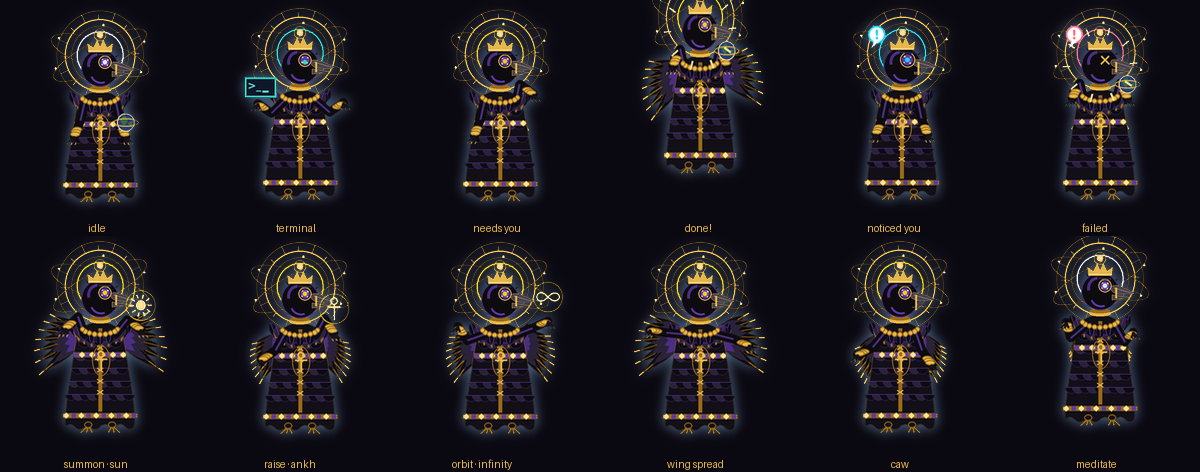
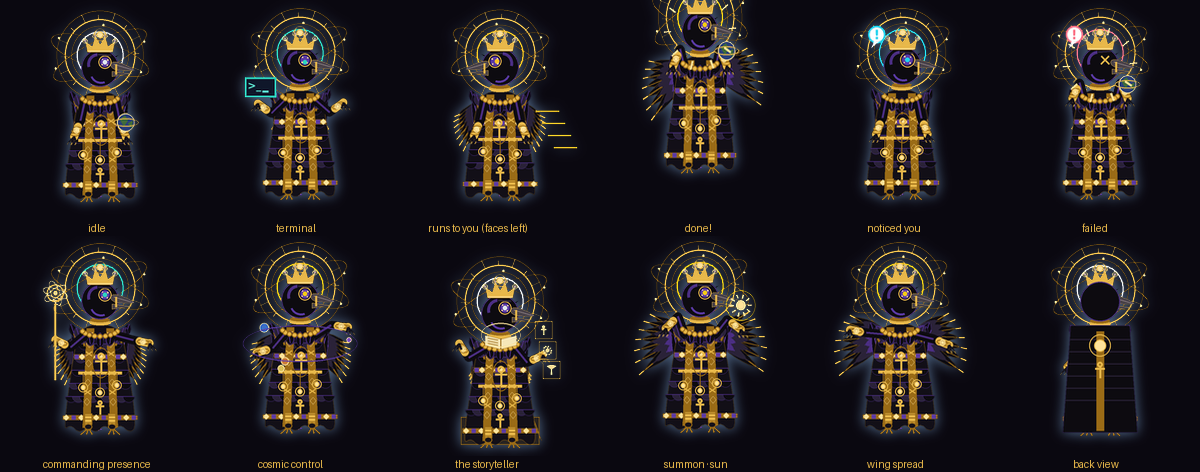
Nyamekra: add turnaround-sheet details, scene moves and facing
Long feather cape, twin gold-patterned stoles, orb pendants on chains and
a second ankh, gold gauntlets and greaves, taller jewelled crown. New
moves from the sheet's scenes: commanding_presence (scepter with
armillary sphere), cosmic_control (orbiting planets), storyteller_read
(seated with glowing book and floating glyph panels), glyph_weave and
turn_back (back view). Draws mirrored while travelling left so it faces
its direction. 100 own moves; tests cover the scenes and facing.

Claude-Session: https://claude.ai/code/session_01PQo4QqTtKQd9uCasapaCKQ

diff --git a/hermes_companion/animation/nyamekra.py b/hermes_companion/animation/nyamekra.py
@@ -74,7 +74,55 @@ BODY_MOVES = {
     "meditate":       ("calm", (40, 100, 40, 100), 0.2, 0, 0, {"float"}),
     "survey_realms":  ("focused", (15, 20, 100, 30), 0.3, 0, 4, {"scan"}),
     "steady_breath":  ("uneasy", (25, 40, 25, 40), 0.1, 0, 0, {"breath"}),
+    # from the turnaround sheet's scenes
+    "commanding_presence": ("focused", (40, 60, 85, 10), 0.5, 1, 0, {"scepter"}),
+    "cosmic_control":  ("bright", (30, 30, 130, 30), 0.6, 2, 0, {"cosmos"}),
+    "storyteller_read": ("calm", (50, 80, 50, 80), 0.2, 0, 0, {"seat", "book"}),
+    "glyph_weave":     ("focused", (40, 60, 110, 40), 0.3, 1, 0, {"glyphs"}),
+    "turn_back":       ("calm", (12, 10, 12, 10), 0.2, 0, 0, {"back"}),
 }
+
+# Poses that travel left: Nyamekra turns to face the way it is going.
+FACE_LEFT = frozenset({"run_to_user", "return_home", "panic", "orb_returns"})
+
+
+class _Mirror:
+    """Canvas proxy that draws everything mirrored across the frame centre."""
+
+    def __init__(self, canvas, width: int = 200) -> None:
+        self._c, self._w = canvas, width
+
+    def _xs(self, coords):
+        flat = list(coords[0]) if len(coords) == 1 and isinstance(coords[0], (list, tuple)) \
+            else list(coords)
+        return [self._w - v if i % 2 == 0 else v for i, v in enumerate(flat)]
+
+    def delete(self, *a):
+        return self._c.delete(*a)
+
+    def create_line(self, *coords, **kw):
+        return self._c.create_line(*self._xs(coords), **kw)
+
+    def create_polygon(self, *coords, **kw):
+        return self._c.create_polygon(*self._xs(coords), **kw)
+
+    def _box(self, method, x1, y1, x2, y2, **kw):
+        return getattr(self._c, method)(self._w - x2, y1, self._w - x1, y2, **kw)
+
+    def create_oval(self, x1, y1, x2, y2, **kw):
+        return self._box("create_oval", x1, y1, x2, y2, **kw)
+
+    def create_rectangle(self, x1, y1, x2, y2, **kw):
+        return self._box("create_rectangle", x1, y1, x2, y2, **kw)
+
+    def create_arc(self, x1, y1, x2, y2, **kw):
+        if "start" in kw or "extent" in kw:
+            start, extent = kw.get("start", 0.0), kw.get("extent", 90.0)
+            kw = dict(kw, start=180.0 - start - extent, extent=extent)
+        return self._box("create_arc", x1, y1, x2, y2, **kw)
+
+    def create_text(self, x, y, **kw):
+        return self._c.create_text(self._w - x, y, **kw)
 
 
 def _build_moves() -> dict[str, tuple]:
@@ -216,6 +264,8 @@ def _wing(canvas, root_x, root_y, side, spread, P, p, beat):
 def draw_nyamekra(canvas, pose: str, progress: float = 0.0, palette: str | None = None) -> None:
     P = NYAMEKRA_PALETTES[NYAMEKRA_DEFAULT_PALETTE]
     canvas.delete("all")
+    if pose in FACE_LEFT:
+        canvas = _Mirror(canvas)
     p = progress % 1.0
     osc = math.sin(p * 2 * math.pi)
     own = NYAMEKRA_MOVES.get(pose)
@@ -242,6 +292,8 @@ def draw_nyamekra(canvas, pose: str, progress: float = 0.0, palette: str | None 
     glow = MOOD_COLORS.get(mood, MOOD_COLORS["calm"])
     if "float" in fx:
         dy -= 8 + 2 * osc
+    if "seat" in fx:
+        dy += 12
 
     cx = 100 + shear + dx
     cy = 150 + dy + {"jump": -26, "fall": 14, "sit": 14, "tall": -5}.get(body, 0)
@@ -278,8 +330,25 @@ def draw_nyamekra(canvas, pose: str, progress: float = 0.0, palette: str | None 
     for side in (-1, 1):
         _wing(canvas, cx + side * 12, top + 10, side, wing, P, p + (0.25 if side > 0 else 0), beat)
 
-    # ---- feathered robe with kente-like gold weave -----------------------------------
+    # ---- long feather cape: from the shoulders to the floor --------------------------
     hem = cy + 40
+    for row in range(3):
+        n = 11 - row * 2
+        span = 46 - row * 8
+        for i in range(n):
+            t = i / (n - 1)
+            fx0 = cx - span + 2 * span * t
+            length = (hem + 10 - top) * (0.92 - row * 0.12) * (0.85 + 0.15 * math.sin(t * math.pi))
+            sway_ang = math.pi / 2 + (t - 0.5) * 0.5 + math.sin(p * 6.28 + i) * 0.03
+            _feather(canvas, fx0 * 0.6 + cx * 0.4, top + 4 + row * 6, sway_ang, length,
+                     7 - row, (P["feather"], P["feather_hi"], P["sheen"])[row],
+                     P["violet"] if row == 0 else P["feather"], P["violet"] if row == 0 else None)
+    if "seat" in fx:                                              # a carved stone seat
+        canvas.create_rectangle(cx - 40, hem - 22, cx + 40, hem + 6, fill="#2a2420", outline=P["gold_dk"])
+        for i in range(5):
+            canvas.create_line(cx - 34 + i * 17, hem - 18, cx - 26 + i * 17, hem + 2, fill=P["gold_dk"])
+
+    # ---- feathered robe with kente-like gold weave -----------------------------------
     robe = [cx - 20, top - 2, cx + 20, top - 2, cx + 27, top + 30]
     n_hem = 9
     for i in range(n_hem + 1):                                    # feathered, flowing hem
@@ -308,11 +377,25 @@ def draw_nyamekra(canvas, pose: str, progress: float = 0.0, palette: str | None 
                                       fill=P["gold_hi"], outline="")
             else:
                 canvas.create_rectangle(bx - 2, yy - 2, bx + 2, yy + 2, fill=P["violet"], outline="")
-    canvas.create_line(cx, top + 4, cx, hem - 12, fill=P["gold_dk"], width=4)  # front panel
-    for i in range(6):
-        yy = top + 10 + i * 11
-        canvas.create_line(cx - 3, yy, cx + 3, yy + 4, fill=P["gold"], width=1)
-        canvas.create_line(cx + 3, yy, cx - 3, yy + 4, fill=P["gold"], width=1)
+    for side in (-1, 1):                                          # gold-patterned stoles
+        x0 = cx + side * 10
+        canvas.create_line(x0, top + 2, x0 + side * 4, hem + 2, fill=P["gold_dk"], width=8)
+        for i in range(8):
+            yy = top + 8 + i * 9.5
+            xx = x0 + side * 4 * (yy - top) / (hem - top)
+            if i % 2:
+                canvas.create_polygon(xx - 3, yy, xx, yy - 3.5, xx + 3, yy, xx, yy + 3.5,
+                                      fill="", outline=P["gold_hi"])
+            else:
+                canvas.create_line(xx - 3, yy - 2, xx + 3, yy + 2, fill=P["gold"], width=1)
+                canvas.create_line(xx + 3, yy - 2, xx - 3, yy + 2, fill=P["gold"], width=1)
+    belt = top + 46
+    canvas.create_line(cx - 22, belt, cx + 22, belt, fill=P["gold"], width=3)
+    for k, px in enumerate((-17, 0, 17)):                         # orb pendants on chains
+        drop = 10 + (k % 2) * 6 + math.sin(p * 6.28 + k) * 1.5
+        canvas.create_line(cx + px, belt, cx + px, belt + drop, fill=P["gold_dk"], width=1)
+        _glow_dot(canvas, cx + px, belt + drop + 3, 2.6, P["gold"], P["gold_hi"])
+    _symbol(canvas, "ankh", cx, hem - 18, 7, P["gold"], p)        # the lower ankh
 
     # ---- feathered shoulder mantle --------------------------------------------------
     for row, (rad, col) in enumerate(((30, P["feather"]), (24, P["feather_hi"]), (17, P["feather"]))):
@@ -327,6 +410,10 @@ def draw_nyamekra(canvas, pose: str, progress: float = 0.0, palette: str | None 
     # ---- taloned feet ----------------------------------------------------------------
     for side in (-1, 1):
         fx_, fy = cx + side * 12 + (osc * 4 * side if "hop" in fx else 0), hem + 2
+        canvas.create_rectangle(fx_ - 4, fy - 14, fx_ + 4, fy - 3, fill=P["gold"], outline=P["gold_dk"])
+        for k in range(3):
+            canvas.create_line(fx_ - 4, fy - 12 + k * 3.5, fx_ + 4, fy - 12 + k * 3.5,
+                               fill=P["gold_dk"], width=1)
         for t in (-1, 0, 1):
             canvas.create_line(fx_, fy, fx_ + t * 6 + side * 2, fy + 7, fill=P["gold_dk"], width=2)
         canvas.create_oval(fx_ - 4, fy - 4, fx_ + 4, fy + 2, fill=P["talon"], outline=P["gold_dk"])
@@ -344,9 +431,12 @@ def draw_nyamekra(canvas, pose: str, progress: float = 0.0, palette: str | None 
         ex, ey, hx2, hy2 = _limb(canvas, cx + side * 16, sy, min(sh, 100) if not up else 180 - sh,
                                  el, 18, 17, side, 9, P["feather"], flip_up=up)
         canvas.create_line(cx + side * 16, sy, ex, ey, fill=P["sheen"], width=2)
-        for k in (0.55, 0.7, 0.85):
+        gx0, gy0 = ex + (hx2 - ex) * 0.4, ey + (hy2 - ey) * 0.4
+        canvas.create_line(gx0, gy0, hx2, hy2, fill=P["gold"], width=8, capstyle="round")
+        for k in (0.5, 0.68, 0.86):
             bx, by = ex + (hx2 - ex) * k, ey + (hy2 - ey) * k
-            canvas.create_oval(bx - 5, by - 2.5, bx + 5, by + 2.5, fill=P["gold"], outline=P["gold_dk"])
+            canvas.create_oval(bx - 4.5, by - 2, bx + 4.5, by + 2, outline=P["gold_dk"], width=1)
+        _glow_dot(canvas, ex + (hx2 - ex) * 0.6, ey + (hy2 - ey) * 0.6, 1.6, P["gold_hi"], P["gold_hi"])
         for t in (-1, 0, 1):                                      # talon fingers
             canvas.create_line(hx2, hy2, hx2 + t * 4 + side * 2, hy2 + 6, fill=P["talon"], width=2)
             canvas.create_line(hx2 + t * 4 + side * 2, hy2 + 6, hx2 + t * 4 + side * 3, hy2 + 8,
@@ -427,9 +517,11 @@ def draw_nyamekra(canvas, pose: str, progress: float = 0.0, palette: str | None 
                        fill=P["feather_hi"], width=2)
     # crown with sun-orb
     ctop = hcy - 15
-    canvas.create_polygon(hcx - 12, ctop, hcx - 13, ctop - 9, hcx - 7, ctop - 5, hcx - 3, ctop - 13,
-                          hcx, ctop - 6, hcx + 3, ctop - 13, hcx + 7, ctop - 5, hcx + 13, ctop - 9,
-                          hcx + 12, ctop, fill=P["gold"], outline=P["gold_dk"])
+    canvas.create_polygon(hcx - 13, ctop, hcx - 15, ctop - 11, hcx - 8, ctop - 6, hcx - 5, ctop - 16,
+                          hcx, ctop - 8, hcx + 5, ctop - 16, hcx + 8, ctop - 6, hcx + 15, ctop - 11,
+                          hcx + 13, ctop, fill=P["gold"], outline=P["gold_dk"])
+    for gx in (-15, -5, 5, 15):
+        _glow_dot(canvas, hcx + gx, ctop - (11 if abs(gx) > 10 else 16), 1.5, P["gold_hi"], P["violet"])
     canvas.create_line(hcx - 12, ctop - 1, hcx + 12, ctop - 1, fill=P["gold_hi"], width=1)
     _glow_dot(canvas, hcx, ctop - 17, 3.5, P["gold"], P["gold_hi"])
 
@@ -438,6 +530,50 @@ def draw_nyamekra(canvas, pose: str, progress: float = 0.0, palette: str | None 
         sx_, sy_ = hands[1][0], hands[1][1] - 20 - abs(osc) * 4
         canvas.create_oval(sx_ - 15, sy_ - 15, sx_ + 15, sy_ + 15, outline=glow, width=1)
         _symbol(canvas, symbol, sx_, sy_, 10 + 1.5 * abs(osc), P["gold_hi"], p)
+    if "scepter" in fx:                                           # scepter + armillary sphere
+        sx0, sy0 = hands[0]
+        canvas.create_line(sx0, sy0 + 40, sx0, sy0 - 36, fill=P["gold"], width=3)
+        ox, oy = sx0, sy0 - 46
+        canvas.create_oval(ox - 9, oy - 9, ox + 9, oy + 9, outline=P["gold"], width=2)
+        for tilt in (0.3, -0.6, 1.2):
+            pts = []
+            for i in range(17):
+                t = i / 16 * 2 * math.pi + p * 2
+                a, b = math.cos(t) * 13, math.sin(t) * 4.5
+                pts += [ox + a * math.cos(tilt) - b * math.sin(tilt), oy + a * math.sin(tilt) + b * math.cos(tilt)]
+            canvas.create_line(*pts, fill=P["gold_hi"], width=1, smooth=True)
+        _glow_dot(canvas, ox, oy, 2.5, P["gold"], P["gold_hi"])
+    if "cosmos" in fx:                                            # planets orbiting the body
+        for k, (col, rad) in enumerate((("#c97b3a", 4), ("#3a6fc9", 5), ("#8a5ac9", 3), ("#d9c25a", 3.5))):
+            t = p * 2 * math.pi * (1 + k * 0.3) + k * 1.6
+            ox, oy = cx + math.cos(t) * (58 - k * 4), cy - 40 + math.sin(t) * (18 + k * 3)
+            canvas.create_oval(ox - rad, oy - rad, ox + rad, oy + rad, fill=col, outline=P["gold_hi"])
+        canvas.create_oval(cx - 58, cy - 58, cx + 58, cy - 22, outline=P["violet"], width=1)
+    if "book" in fx:                                              # glowing open book
+        bx0 = (hands[0][0] + hands[1][0]) / 2
+        by0 = (hands[0][1] + hands[1][1]) / 2 - 4
+        canvas.create_polygon(bx0 - 16, by0, bx0, by0 + 4, bx0 + 16, by0, bx0 + 16, by0 - 10,
+                              bx0, by0 - 6, bx0 - 16, by0 - 10, fill="#f6e7b8", outline=P["gold_dk"])
+        canvas.create_line(bx0, by0 - 6, bx0, by0 + 4, fill=P["gold_dk"])
+        for i in range(3):
+            canvas.create_line(bx0 - 13, by0 - 7 + i * 2.5, bx0 - 3, by0 - 5 + i * 2.5, fill=P["gold_dk"])
+        canvas.create_oval(bx0 - 20, by0 - 22, bx0 + 20, by0 + 2, outline=P["gold_hi"], width=1)
+    if "glyphs" in fx or "book" in fx:                            # floating glyph panels
+        for k in range(3):
+            gx = cx + 44 + k * 4
+            gy = cy - 70 + k * 22 + math.sin(p * 6.28 + k) * 3
+            canvas.create_rectangle(gx - 9, gy - 9, gx + 9, gy + 9, outline=P["gold"], width=1)
+            _symbol(canvas, SYMBOLS[(k * 3 + int(p * 3)) % len(SYMBOLS)], gx, gy, 5, P["gold_hi"], p)
+    if "back" in fx:                                              # back view: cloak and medallion
+        canvas.create_oval(hcx - 20, hcy - 19, hcx + 20, hcy + 20, fill=P["feather"], outline=P["sheen"])
+        canvas.create_polygon(cx - 30, top - 2, cx + 30, top - 2, cx + 38, hem + 6, cx - 38, hem + 6,
+                              fill=P["feather"], outline=P["violet"])
+        for i in range(6):
+            yy = top + 12 + i * 12
+            canvas.create_line(cx - 30 - i, yy, cx + 30 + i, yy, fill=P["feather_hi"], width=1)
+        canvas.create_line(cx, top + 4, cx, hem + 4, fill=P["gold_dk"], width=8)
+        _glow_dot(canvas, cx, top + 18, 6, P["gold"], P["gold_hi"])
+        _symbol(canvas, "ankh", cx, top + 42, 8, P["gold"], p)
     if "scan" in fx:
         for i in range(3):
             canvas.create_arc(hcx + 20, hcy - 20 - i * 6, hcx + 60 + i * 10, hcy + 20 + i * 6,

diff --git a/hermes_companion/tests/test_nyamekra.py b/hermes_companion/tests/test_nyamekra.py
@@ -65,3 +65,24 @@ def test_signatures_survive_with_the_crow_repertoire():
             out = MoveGrammar(random.Random(seed), extra=extra).decorate(steps, state)
             assert signature_of(out) == [("terminal_work", 900)]
             assert {s["pose"] for s in out if s["role"] == "flourish"} <= allowed
+
+
+def test_turnaround_sheet_scenes_exist():
+    for move in ("commanding_presence", "cosmic_control", "storyteller_read",
+                 "glyph_weave", "turn_back"):
+        assert move in NYAMEKRA_MOVES
+
+
+def test_faces_the_way_it_travels():
+    from hermes_companion.renderer.smooth import FrameRenderer
+    r = FrameRenderer("nyamekra", glow=False, squash=False)
+
+    def beak_side(pose):
+        a = r.frame(pose, 0.3).getchannel("A")
+        mass = lambda x0, x1: sum(1 for y in range(55, 72) for x in range(x0, x1)
+                                  if a.getpixel((x, y)) > 128)
+        return "right" if mass(110, 140) > mass(60, 90) else "left"
+
+    assert beak_side("idle_bob") == "right"
+    assert beak_side("run_to_user") == "left"
+    assert beak_side("return_home") == "left"

diff --git a/README.md b/README.md
@@ -39,13 +39,21 @@ celestial halo of orbital rings that is always present, plus galaxy eyes,
 stacked gold neck rings, a golden ankh, and a feathered robe and mantle
 woven with gold. It holds the world-orb.
 
+From the turnaround sheet it also has a long feather cape, twin
+gold-patterned stoles, hanging orb pendants and a second ankh, gold
+gauntlets and greaves, and a taller jewelled crown. It turns to face the
+way it travels.
+
 Nyamekra never changes form. Its range comes from composition: 8 gestures
 can each channel any of the 10 Symbols of Essence (ankh, adinkra heart,
-crow, sun, moon, spiral, baobab, pyramid, orbital rings, infinity). Add 15
-wing and crow-body moves (wing spread, wing beat, glide, caw, preen, halo
-spin, orb juggle, meditate and more) and every shared engine pose, and the
-move grammar turns that into about 1.7 million distinct performances of a
-single Hermes action. The Hermes action itself never changes.
+crow, sun, moon, spiral, baobab, pyramid, orbital rings, infinity). On top
+of that come 20 wing, crow-body and scene moves: wing spread, wing beat,
+glide, caw, preen, halo spin, orb juggle and meditate, plus Commanding
+Presence (scepter with armillary sphere), Cosmic Control (orbiting planets),
+The Storyteller (seated, reading a glowing book among floating glyphs),
+Glyph Weave and a back view. With every shared engine pose, the move grammar
+turns that into millions of distinct performances of a single Hermes
+action. The Hermes action itself never changes.
 
 ### Nia, the storyteller
 
